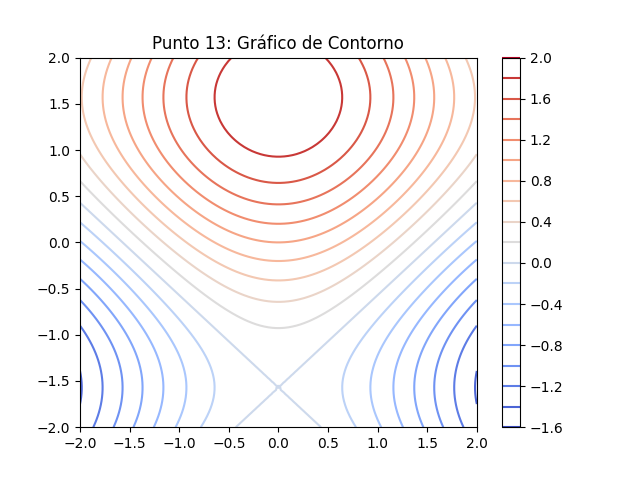
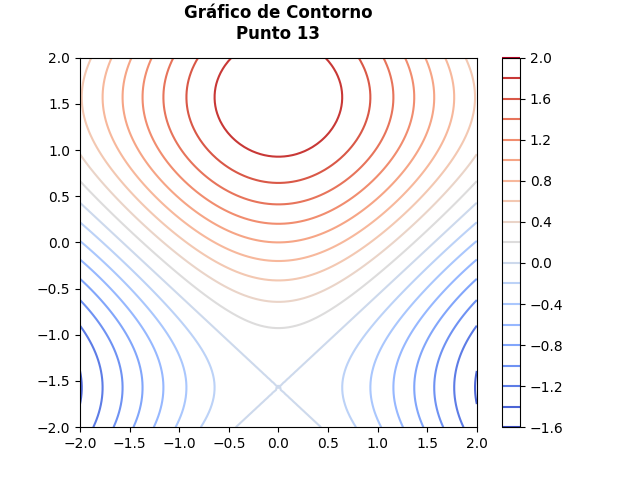
ajuste actividad_2

Changed region(s): [[0.2188, 0.0, 0.625, 0.125]]

diff --git a/src/pad/actividad_2.py b/src/pad/actividad_2.py
@@ -7,9 +7,14 @@ import matplotlib.pyplot as plt
 carpeta_resultados = os.path.join(os.getcwd(), "src", "pad", "carpeta_resultados")
 os.makedirs(carpeta_resultados, exist_ok=True)
 
+# Función para agregar texto en el gráfico
+def agregar_texto(titulo, punto):
+    plt.text(0.5, 1.05, f"{titulo}\n{punto}", fontsize=12, ha='center', transform=plt.gca().transAxes, weight='bold')
+
 # Rutas de exportación
 ruta_csv = os.path.join(carpeta_resultados, "resultados.csv")
 ruta_excel = os.path.join(carpeta_resultados, "resultados.xlsx")
+
 
 ### Puntos de la tarea ###
 
@@ -72,9 +77,8 @@ print("Punto 10:", ej10_mayores)
 # 11. Gráfico de dispersión
 plt.figure()
 plt.scatter(np.random.rand(100), np.random.rand(100), alpha=0.7, color='blue')
-plt.title("Punto 11: Gráfico de Dispersión")
-ruta_dispersion = os.path.join(carpeta_resultados, "grafico_dispersion.png")
-plt.savefig(ruta_dispersion)
+agregar_texto("Gráfico de Dispersión", "Punto 11")
+plt.savefig(os.path.join(carpeta_resultados, "grafico_dispersion.png"))
 plt.close()
 
 # 12. Gráfico de dispersión con función y = sin(x) + ruido
@@ -82,7 +86,7 @@ x_12 = np.linspace(-2 * np.pi, 2 * np.pi, 100)
 y_12 = np.sin(x_12) + np.random.normal(0, 0.1, size=len(x_12))
 plt.figure()
 plt.scatter(x_12, y_12, alpha=0.7, color='red')
-plt.title("Punto 12: Dispersión con función seno")
+agregar_texto("Dispersión con función seno", "Punto 12")
 plt.savefig(os.path.join(carpeta_resultados, "grafico_seno.png"))
 plt.close()
 
@@ -94,19 +98,18 @@ Z = np.cos(X) + np.sin(Y)
 plt.figure()
 plt.contour(X, Y, Z, levels=20, cmap="coolwarm")
 plt.colorbar()
-plt.title("Punto 13: Gráfico de Contorno")
+agregar_texto("Gráfico de Contorno", "Punto 13")
 plt.savefig(os.path.join(carpeta_resultados, "grafico_contorno.png"))
 plt.close()
 
 # 14. Gráfico de dispersión con 1000 puntos y colores según densidad
 x_14 = np.random.rand(1000)
 y_14 = np.random.rand(1000)
-colors_14 = np.sqrt(x_14**2 + y_14**2)  # Mejor representación de densidad
-
+colors_14 = np.sqrt(x_14**2 + y_14**2)
 plt.figure()
 plt.scatter(x_14, y_14, c=colors_14, cmap="viridis", alpha=0.7)
 plt.colorbar(label="Densidad")
-plt.title("Punto 14: Dispersión con Densidad")
+agregar_texto("Dispersión con Densidad", "Punto 14")
 plt.savefig(os.path.join(carpeta_resultados, "grafico_densidad.png"))
 plt.close()
 
@@ -114,7 +117,7 @@ plt.close()
 plt.figure()
 plt.contourf(X, Y, Z, levels=20, cmap="coolwarm")
 plt.colorbar()
-plt.title("Punto 15: Gráfico de Contorno Lleno")
+agregar_texto("Gráfico de Contorno Lleno", "Punto 15")
 plt.savefig(os.path.join(carpeta_resultados, "grafico_contorno_lleno.png"))
 plt.close()
 
@@ -124,8 +127,8 @@ plt.scatter(x_12, y_12, alpha=0.7, color='red', label='y = sin(x) + ruido')
 plt.plot(x_12, np.sin(x_12), color='black', linestyle='dashed', label='y = sin(x)')
 plt.xlabel("Eje X")
 plt.ylabel("Eje Y")
-plt.title("Punto 16: Dispersión con etiquetas y leyenda")
 plt.legend()
+agregar_texto("Dispersión con etiquetas y leyenda", "Punto 16")
 plt.savefig(os.path.join(carpeta_resultados, "grafico_etiquetas.png"))
 plt.close()
 
@@ -133,9 +136,9 @@ plt.close()
 data_17 = np.random.randn(1000)
 plt.figure()
 plt.hist(data_17, bins=30, alpha=0.7, color='blue', edgecolor='black')
-plt.xlabel("Valores de la distribución")  # Etiqueta del eje X
-plt.ylabel("Frecuencia")  # Etiqueta del eje Y
-plt.title("Punto 17: Histograma de distribución normal")
+plt.xlabel("Valores de la distribución")
+plt.ylabel("Frecuencia")
+agregar_texto("Histograma de distribución normal", "Punto 17")
 plt.savefig(os.path.join(carpeta_resultados, "histograma_normal.png"))
 plt.close()
 
@@ -148,7 +151,7 @@ plt.hist(data_18b, bins=30, alpha=0.5, color='red', label="Grupo 2")
 plt.xlabel("Valores")
 plt.ylabel("Frecuencia")
 plt.legend()
-plt.title("Punto 18: Histogramas combinados")
+agregar_texto("Histogramas combinados", "Punto 18")
 plt.savefig(os.path.join(carpeta_resultados, "histogramas_combinados.png"))
 plt.close()
 
@@ -157,7 +160,7 @@ plt.figure()
 plt.hist(data_17, bins=[10, 30, 50], alpha=0.7, color='purple', edgecolor='black')
 plt.xlabel("Valores")
 plt.ylabel("Frecuencia")
-plt.title("Punto 19: Histogramas con diferentes bins")
+agregar_texto("Histograma con diferentes bins", "Punto 19")
 plt.savefig(os.path.join(carpeta_resultados, "histograma_bins.png"))
 plt.close()
 
@@ -167,7 +170,7 @@ plt.hist(data_17, bins=30, alpha=0.7, color='green', edgecolor='black')
 plt.axvline(data_17.mean(), color='black', linestyle='dashed', linewidth=2)
 plt.xlabel("Valores")
 plt.ylabel("Frecuencia")
-plt.title("Punto 20: Histograma con media")
+agregar_texto("Histograma con media", "Punto 20")
 plt.savefig(os.path.join(carpeta_resultados, "histograma_media.png"))
 plt.close()
 
@@ -178,12 +181,21 @@ plt.hist(data_18b, bins=30, alpha=0.5, color='red', label="Grupo 2")
 plt.xlabel("Valores")
 plt.ylabel("Frecuencia")
 plt.legend()
-plt.title("Punto 21: Histogramas Superpuestos")
+agregar_texto("Histogramas Superpuestos", "Punto 21")
 plt.savefig(os.path.join(carpeta_resultados, "histograma_superpuesto.png"))
 plt.close()
 
+print("Todos los gráficos han sido generados con títulos dentro de la imagen.")
 
-print("Todos los resultados han sido guardados correctamente.")
+
+
+
+
+
+
+
+
+
 
 # Guardar los resultados en un DataFrame y exportarlos a CSV y Excel
 datos = {
